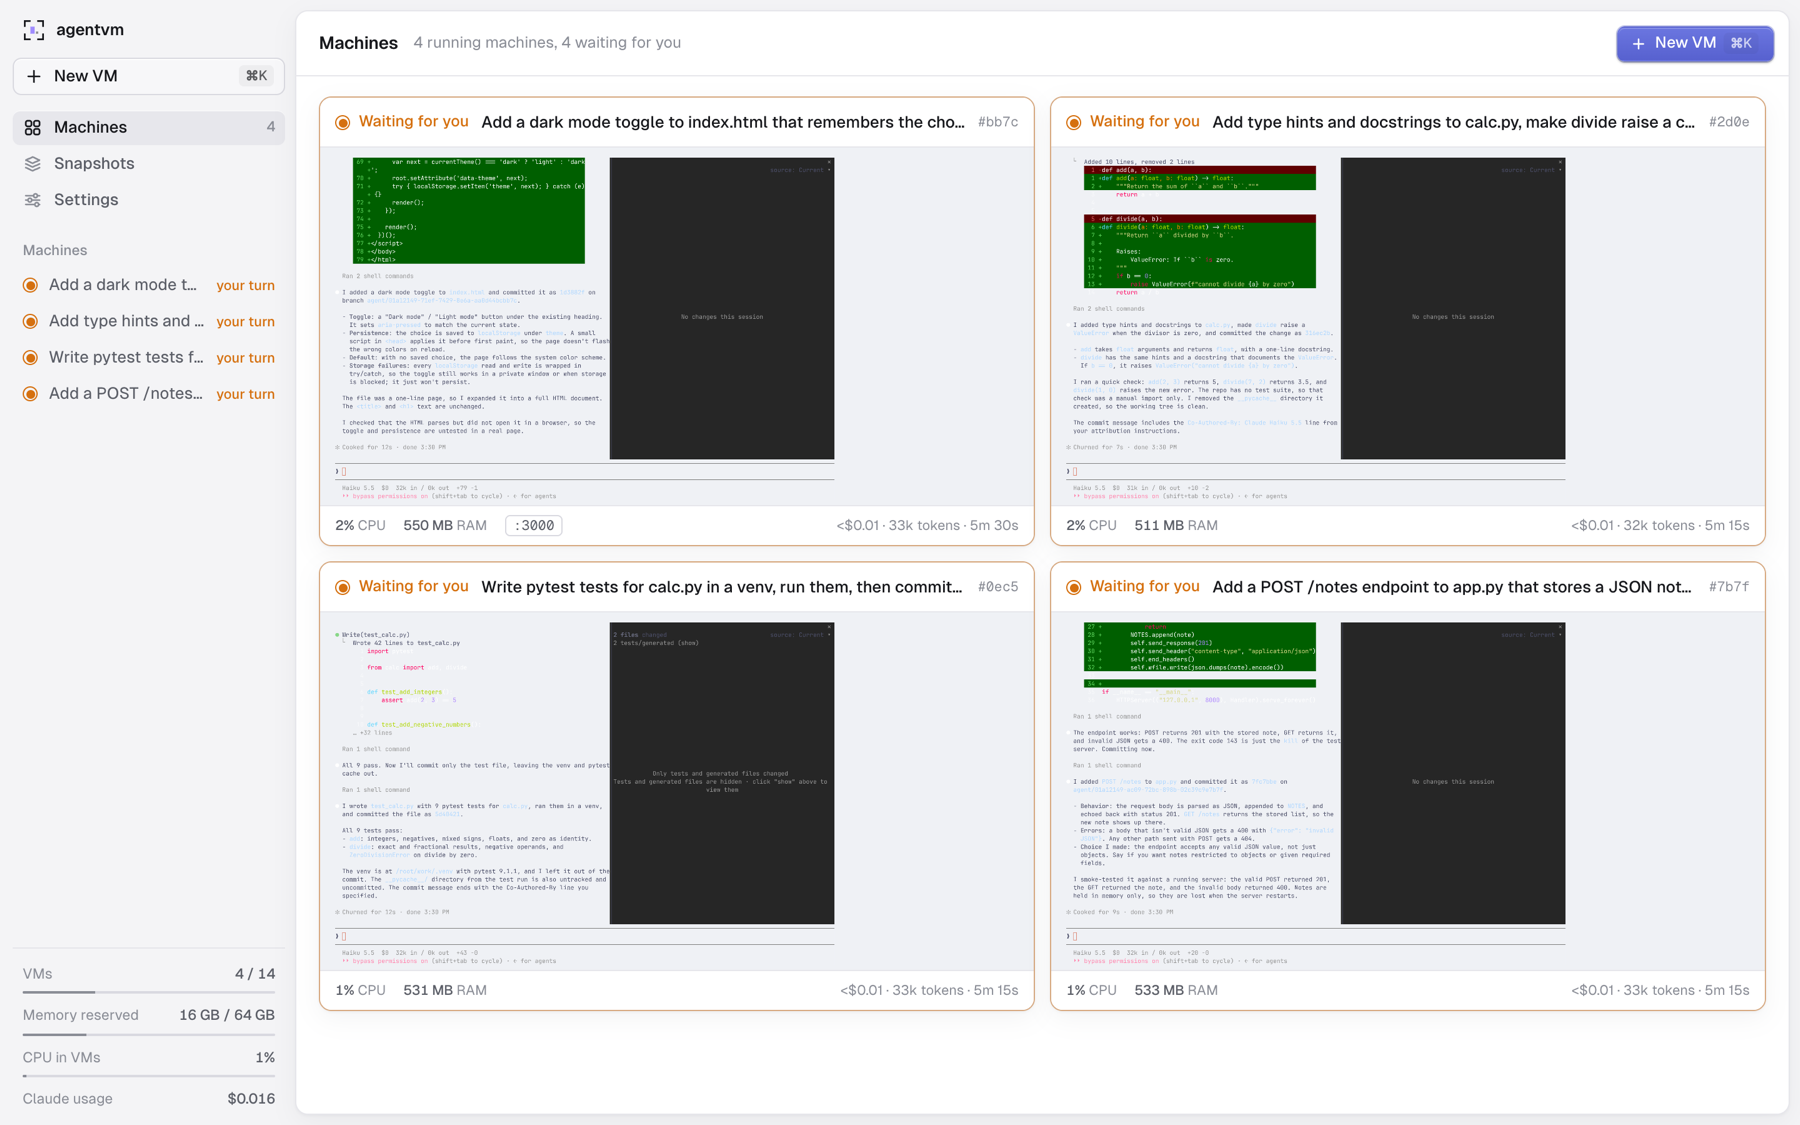
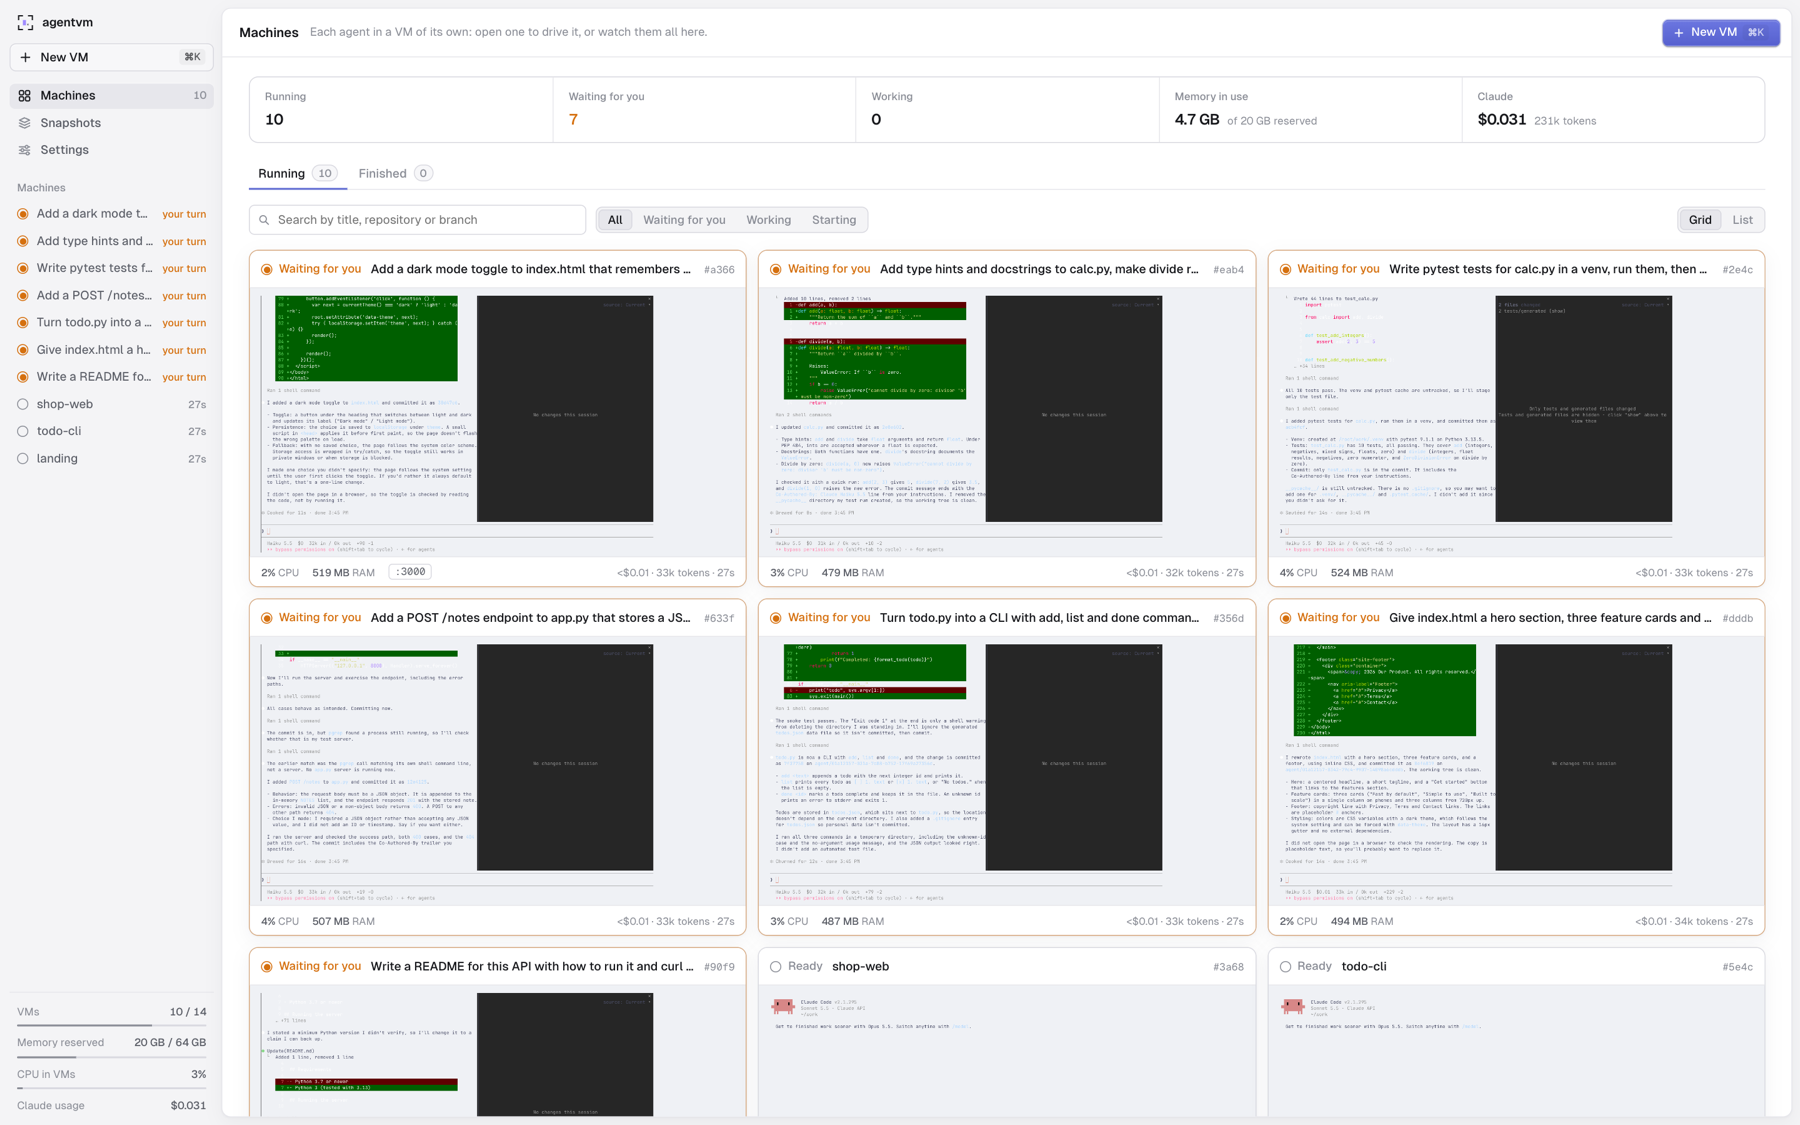
docs: README screenshots of ten VMs, as a grid and as a list
The wall showed four agents; ten machines, seven waiting for review and three terminals, show
what the Machines page is for. The list view gets its own picture, both lossless WebP.

diff --git a/README.md b/README.md
@@ -35,9 +35,9 @@ account** and press **New VM**. Needs a Mac with Apple silicon, Xcode Command Li
 [Rust](https://rustup.rs) and [Bun](https://bun.sh); details in [Quickstart](#quickstart).
 
 <p align="center">
-  <img src="docs/assets/wall.webp" alt="The Machines wall: four Claude Code agents, each in its own VM, waiting for review" width="100%">
+  <img src="docs/assets/wall.webp" alt="The Machines page: ten VMs, seven Claude Code agents waiting for review and three terminals ready" width="100%">
 </p>
-<p align="center"><i>The Machines wall: four agents, four VMs, one screen.</i></p>
+<p align="center"><i>Ten VMs on one Mac: seven agents waiting for review, three terminals ready, 4.7 GB of memory in use.</i></p>
 
 ## Highlights
 
@@ -161,6 +161,11 @@ http://3000.<vm>.localhost:7777     HTTP and WebSocket, hot reload included
 
 Other TCP services (databases) get a direct port on `127.0.0.1`. Both work even when the service
 listens only on the VM's localhost.
+
+<p align="center">
+  <img src="docs/assets/machines-list.webp" alt="The Machines page as a list: status, CPU, memory, ports, Claude's spend and uptime of ten VMs" width="100%">
+</p>
+<p align="center"><i>The same ten VMs as a list: what each is doing, what it uses, and Open, Save, Snapshot, Close.</i></p>
 
 <table>
   <tr>
